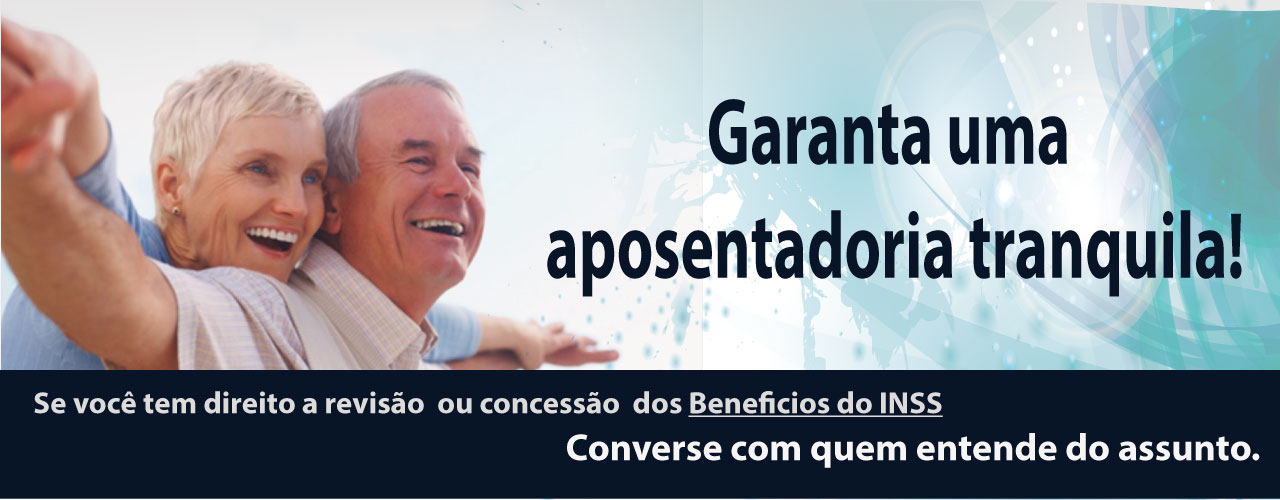
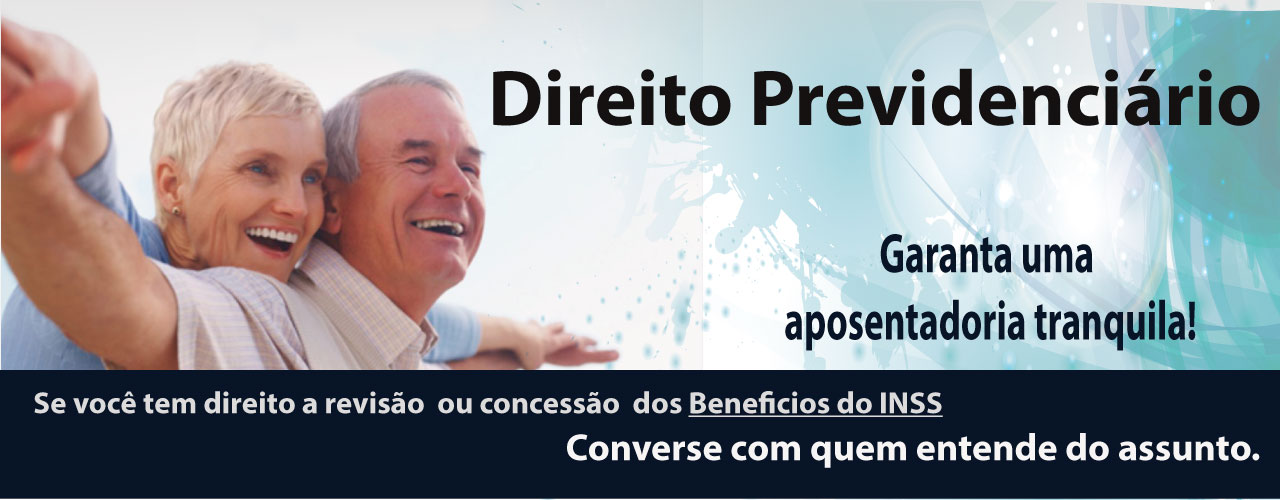
Ajustando as areas de atuaçao

Changed region(s): [[0.4062, 0.42, 0.9688, 0.69], [0.375, 0.12, 1.0, 0.33]]

diff --git a/index.html b/index.html
@@ -171,13 +171,21 @@
                                 <li>Indenizações.</li>
                                 <li>Responsabilidade Civil.</li>
                                 <li>Acompanhamento de contratos civis.</li>
-                                <li>Ajuizamento e defesa em ações de cobranças.</li>
+                                <li>Ajuizamento e defesa em ações.</li>
                             </ul>
                             </p>
-                            <!--<div class="text-center">
-                                <a href="#" class="btn btn-default">Mais atuações </a>
-                            </div>-->
-
+                            <div class="text-right">
+                                <img src="content/more.svg" class="btnmore" onclick="$('#direitocivil').dialog({title:'Direito Civil',width:550});" title="Mais atuações..." >
+                            </div>
+                        </div>
+                        <div id="direitocivil" style="display: none;">
+                            <ul class="listservicos">
+                                <li>Indenizações.</li>
+                                <li>Responsabilidade Civil.</li>
+                                <li>Acompanhamento de contratos civis.</li>
+                                <li>Ajuizamento e defesa em ações de cobranças.</li>
+                                </li>
+                            </ul>
                         </div>
                     </div>
                 </div>
@@ -197,8 +205,8 @@
                             </ul>
                             </p>
 
-                       <div class="text-right">
-                                  <img src="content/more.svg" class="btnmore" onclick="$('#direitotrabalhista').dialog({title:'Direito Previdenciário',width:550});" title="Mais atuações..." >
+                            <div class="text-right">
+                                  <img src="content/more.svg" class="btnmore" onclick="$('#direitotrabalhista').dialog({title:'Direito do Trabalho',width:550});" title="Mais atuações..." >
                             </div>
                         </div>
                         <div id="direitotrabalhista" style="display: none;">
@@ -238,12 +246,20 @@
                                 <li>Limpeza SPC/SERASA E BOA VISTA</li>
                                 <li>Danos Morais.</li>
                                 <li>Empresas Aéreas – Abusos.</li>
-                                <li>Turismo e Hotéis.</li>
                             </ul>
                             </p>
-                            <!--<div class="text-center">
-                                <a href="#" class="btn btn-default">Mais atuações </a>
-                            </div>-->
+                            <div class="text-right">
+                                <img src="content/more.svg" class="btnmore" onclick="$('#direitoconsumidor').dialog({title:'Direito Consumidor',width:550});" title="Mais atuações..." >
+                            </div>
+                        </div>
+                        <div id="direitoconsumidor" style="display: none;">
+                            <ul class="listservicos">
+                                <li>Direito do Consumidor.</li>
+                                <li>Limpeza SPC/SERASA E BOA VISTA</li>
+                                <li>Danos Morais.</li>
+                                <li>Empresas Aéreas – Abusos.</li>
+                                <li>Turismo e Hotéis.</li>
+                            </ul>
                         </div>
                     </div>
                 </div>
@@ -265,8 +281,17 @@
                                 <li>Inventário Extrajudicial – Cartorário.</li>
                                 <li>Testamentos – Elaboração e Cumprimento.</li>
                             </ul>
-                            </p>
-
+                            <div class="text-right">
+                                <img src="content/more.svg" class="btnmore" onclick="$('#inventariotestamento').dialog({title:'Inventários e testamentos',width:550});" title="Mais atuações..." >
+                            </div>
+                        </div>
+                        <div id="inventariotestamento" style="display: none;">
+                            <ul class="listservicos">
+                                <li>Inventários.</li>
+                                <li>Inventário Judicial.</li>
+                                <li>Inventário Extrajudicial – Cartorário.</li>
+                                <li>Testamentos – Elaboração e Cumprimento.</li>
+                            </ul>
                         </div>
                     </div>
                 </div>
@@ -286,7 +311,7 @@
                             </ul>
                             </p>
                             <div class="text-right">
-                                  <img src="content/more.svg" class="btnmore" onclick="$('#direitoprevidenciario').dialog({title:'Direito Previdenciário',width:350});" title="Mais atuações..." >
+                                  <img src="content/more.svg" class="btnmore" onclick="$('#direitoprevidenciario').dialog({title:'Direito Previdenciário',width:550});" title="Mais atuações..." >
                             </div>
                         </div>
                         <div id="direitoprevidenciario" style="display: none;">
@@ -322,7 +347,7 @@
                             </ul>
                             </p>
                          <div class="text-right">
-                                  <img src="content/more.svg" class="btnmore" onclick="$('#direitocriminal').dialog({title:'Direito Previdenciário',width:350});" title="Mais atuações..." >
+                                  <img src="content/more.svg" class="btnmore" onclick="$('#direitocriminal').dialog({title:'Direito Criminal',width:550});" title="Mais atuações..." >
                             </div>
                         </div>
                         <div id="direitocriminal" style="display: none;">
@@ -366,7 +391,7 @@
                             </ul>
                             </p>
                              <div class="text-right">
-                                  <img src="content/more.svg" class="btnmore" onclick="$('#direitofamilia').dialog({title:'Direito de Família',width:350});" title="Mais atuações..." >
+                                  <img src="content/more.svg" class="btnmore" onclick="$('#direitofamilia').dialog({title:'Direito de Família',width:550});" title="Mais atuações..." >
                             </div>
                         </div>
                          <div id="direitofamilia" style="display: none;">
@@ -402,8 +427,17 @@
                                 <li>Trânsito e Transporte</li>
                                 <li>Seguro de Automóveis</li>
                             </ul>
-                            </p>
-
+                            <div class="text-right">
+                                <img src="content/more.svg" class="btnmore" onclick="$('#dpvattransporte').dialog({title:'DPVAT - Transportes',width:550});" title="Mais atuações..." >
+                            </div>
+                        </div>
+                        <div id="dpvattransporte" style="display: none;">
+                            <ul class="listservicos">
+                                <li>Seguros DPVAT</li>
+                                <li>Acidentes de Trânsito</li>
+                                <li>Trânsito e Transporte</li>
+                                <li>Seguro de Automóveis</li>
+                            </ul>
                         </div>
                     </div>
                 </div>
@@ -423,7 +457,7 @@
                             </ul>
                             </p>
                          <div class="text-right">
-                                  <img src="content/more.svg" class="btnmore" onclick="$('#direitoimobiliario').dialog({title:'Direito Previdenciário',width:350});" title="Mais atuações..." >
+                                  <img src="content/more.svg" class="btnmore" onclick="$('#direitoimobiliario').dialog({title:'Direito Imobiliário',width:550});" title="Mais atuações..." >
                             </div>
                         </div>
                         <div id="direitoimobiliario" style="display: none;">
